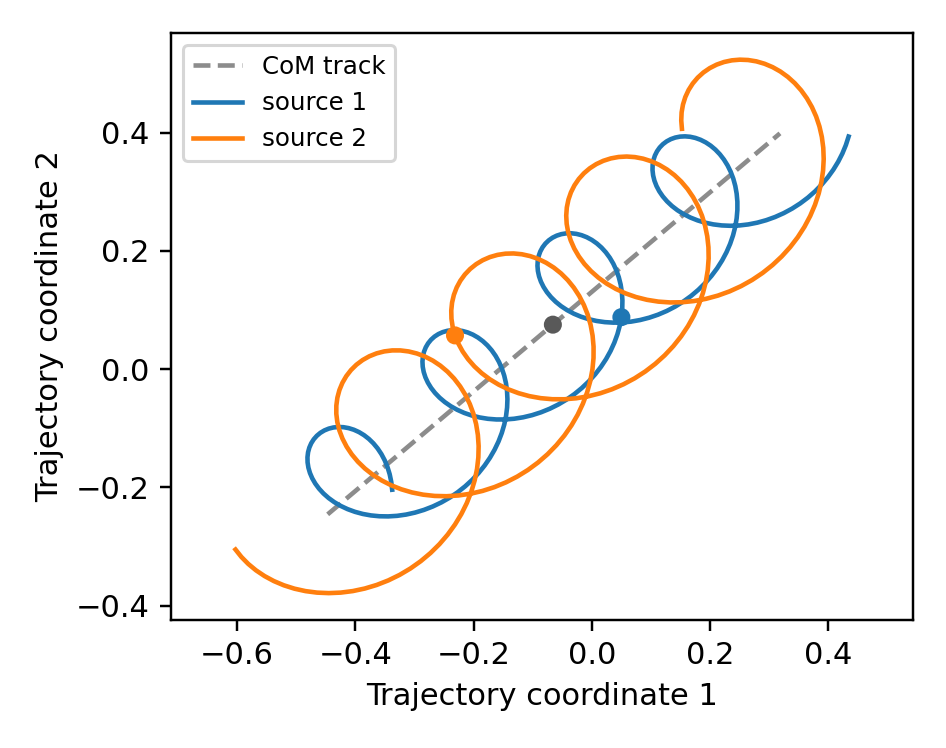
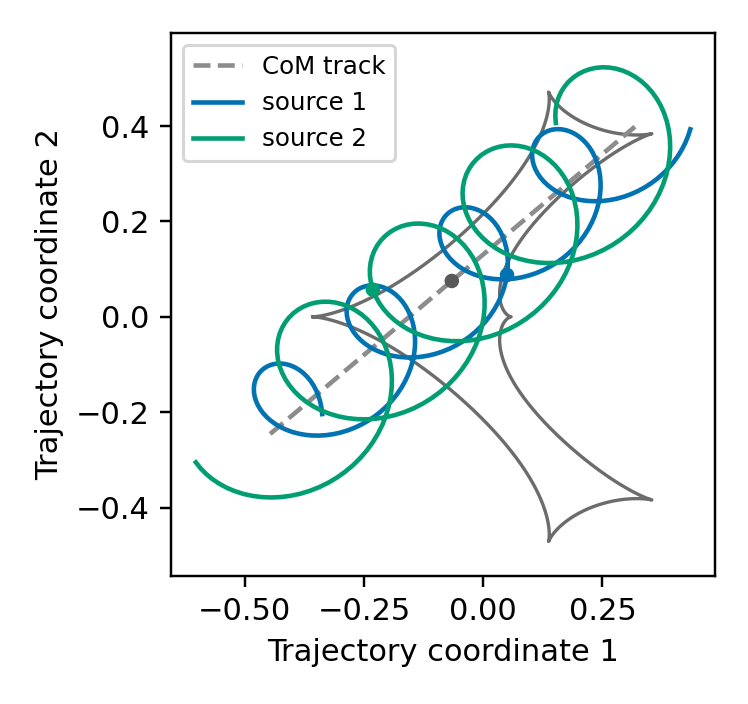
docs: visualize binary-source light curves and trajectories

diff --git a/example/docs-python/generate_figures.py b/example/docs-python/generate_figures.py
@@ -314,15 +314,38 @@ def binary_source():
         source1_params.pop(key)
         source2_params.pop(key)
 
+    source1_magnification = source1(times, source1_params)
+    source2_magnification = source1(times, source2_params)
+    binary_magnification = binary(times, params)
+
     plt.figure(figsize=(4.8, 3.0))
-    plt.plot(times, source1(times, source1_params), label="source 1")
-    plt.plot(times, source1(times, source2_params), label="source 2")
-    plt.plot(times, binary(times, params), color="black", lw=1.5,
+    plt.plot(times, source1_magnification, color="#0173B2", label="source 1")
+    plt.plot(times, source2_magnification, color="#029E73", label="source 2")
+    plt.plot(times, binary_magnification, color="black", lw=1.5,
              label="flux-weighted binary source")
     plt.xlabel("Time")
     plt.ylabel("Magnification")
     plt.legend(fontsize=8)
     save("BinarySource_static_lightcurve.png")
+
+    source1_trajectory = source1.source_trajectory(times, source1_params)
+    source2_trajectory = source1.source_trajectory(times, source2_params)
+    caustics = source1.caustics(source1_params)
+    plt.figure(figsize=(2.8, 2.8))
+    plot_caustics(caustics, color="#6C6C6C", lw=1.1)
+    plt.plot(
+        -np.asarray(source1_trajectory.x), -np.asarray(source1_trajectory.y),
+        color="#0173B2", label="source 1",
+    )
+    plt.plot(
+        -np.asarray(source2_trajectory.x), -np.asarray(source2_trajectory.y),
+        color="#029E73", label="source 2",
+    )
+    plt.xlabel("X")
+    plt.ylabel("Y")
+    plt.axis("equal")
+    plt.legend(fontsize=7)
+    save("BinarySource_static_geometry.png")
 
 
 def binary_source_xallarap_trajectories():
@@ -348,22 +371,43 @@ def binary_source_xallarap_trajectories():
         ),
     )
     centre = static.source_trajectory(times, **common)
+    caustics = static.caustics(**common)
     ref_index = int(np.argmin(np.abs(times - t_ref)))
 
-    plt.figure(figsize=(4.3, 3.4))
+    plt.figure(figsize=(3.4, 3.2))
+    for x, y in zip(caustics.x, caustics.y):
+        plt.plot(x, y, color="#6C6C6C", lw=1.1, zorder=1)
     plt.plot(centre.x, centre.y, color="0.55", linestyle="--", label="CoM track")
-    plt.plot(first.x, first.y, color="tab:blue", label="source 1")
-    plt.plot(second.x, second.y, color="tab:orange", label="source 2")
+    plt.plot(first.x, first.y, color="#0173B2", label="source 1")
+    plt.plot(second.x, second.y, color="#029E73", label="source 2")
     plt.scatter(
         [first.x[ref_index], second.x[ref_index], centre.x[ref_index]],
         [first.y[ref_index], second.y[ref_index], centre.y[ref_index]],
-        color=["tab:blue", "tab:orange", "0.35"], s=24, zorder=3,
+        color=["#0173B2", "#029E73", "0.35"], s=14, zorder=3,
     )
     plt.xlabel("Trajectory coordinate 1")
     plt.ylabel("Trajectory coordinate 2")
     plt.axis("equal")
     plt.legend(fontsize=8)
     save("BinarySource_xallarap_trajectories.png")
+
+
+def binary_source_xallarap_lightcurve():
+    params = dict(
+        s=0.9, q=0.1, alpha=1.0, tE=30.0, t0=7500.0, u0=0.10,
+        rho1=0.004, rho2=0.002, flux_ratio=0.4, source_mass_ratio=0.7,
+        xi_1=0.04, xi_2=-0.02, w1=0.01, w2=0.8, w3=0.2,
+    )
+    times = np.linspace(7470.0, 7530.0, 300)
+    curve = lcbinint.LightCurve(
+        source="binary", xallarap="circular_velocity",
+        source_orbit_coordinates="xallarap", t_ref=7500.0,
+    )
+    plt.figure(figsize=(3.8, 2.55))
+    plt.plot(times, curve(times, params), color="#0173B2")
+    plt.xlabel("Time")
+    plt.ylabel("Magnification")
+    save("BinarySource_xallarap_lightcurve.png")
 
 
 def binary_source_binary_lens():
@@ -600,6 +644,7 @@ def main():
     parallax()
     orbital_motion()
     binary_source()
+    binary_source_xallarap_lightcurve()
     binary_source_xallarap_trajectories()
     binary_source_binary_lens()
     limb_darkening()

diff --git a/docs/python/BinarySources.md b/docs/python/BinarySources.md
@@ -32,9 +32,12 @@ Both `rho1` and `rho2` are required.  Set either to zero for a point source.
 
 ```python
 import numpy as np
+import matplotlib.pyplot as plt
 import lcbinint
 
-curve = lcbinint.LightCurve(source="binary")
+options = lcbinint.Options(tol=1e-3, reltol=1e-3)
+binary_curve = lcbinint.LightCurve(source="binary", options=options)
+single_source_curve = lcbinint.LightCurve(options=options)
 parameters = {
     "s": 0.9, "q": 0.1, "alpha": 1.0, "tE": 30.0,
     "t0": 7500.0, "u0": 0.10, "rho1": 0.004,
@@ -42,13 +45,62 @@ parameters = {
     "flux_ratio": 0.4,
 }
 times = np.linspace(7470.0, 7530.0, 300)
-magnification = curve(times, parameters)
+
+# The two single-source calls expose the components of the binary-source sum.
+source1_params = dict(parameters, rho=parameters["rho1"])
+source2_params = dict(
+    parameters,
+    t0=parameters["t0_2"], u0=parameters["u0_2"], rho=parameters["rho2"],
+)
+for key in ("rho1", "t0_2", "u0_2", "rho2", "flux_ratio"):
+    source1_params.pop(key)
+    source2_params.pop(key)
+
+source1_magnification = single_source_curve(times, source1_params)
+source2_magnification = single_source_curve(times, source2_params)
+binary_magnification = binary_curve(times, parameters)
 ```
 
-The figure separates the two source magnifications from their flux-weighted
-binary-source result.
+Plot the component curves and their flux-weighted binary-source result:
+
+```python
+plt.figure(figsize=(4.8, 3.0))
+plt.plot(times, source1_magnification, color="#0173B2", label="source 1")
+plt.plot(times, source2_magnification, color="#029E73", label="source 2")
+plt.plot(
+    times, binary_magnification, color="black", lw=1.5,
+    label="flux-weighted binary source",
+)
+plt.xlabel("Time")
+plt.ylabel("Magnification")
+plt.legend(fontsize=8)
+plt.show()
+```
 
 ![Static binary-source light curve](figures/BinarySource_static_lightcurve.png)
+
+The same two trajectories can be inspected against the caustics:
+
+```python
+source1_trajectory = single_source_curve.source_trajectory(times, source1_params)
+source2_trajectory = single_source_curve.source_trajectory(times, source2_params)
+caustics = single_source_curve.caustics(source1_params)
+
+plt.figure(figsize=(2.8, 2.8))
+for x, y in zip(caustics.x, caustics.y):
+    plt.plot(-np.asarray(x), -np.asarray(y), color="#6C6C6C", lw=1.1)
+plt.plot(-np.asarray(source1_trajectory.x), -np.asarray(source1_trajectory.y),
+         color="#0173B2", label="source 1")
+plt.plot(-np.asarray(source2_trajectory.x), -np.asarray(source2_trajectory.y),
+         color="#029E73", label="source 2")
+plt.xlabel("X")
+plt.ylabel("Y")
+plt.axis("equal")
+plt.legend(fontsize=7)
+plt.show()
+```
+
+![Static binary-source trajectories and caustics](figures/BinarySource_static_geometry.png)
 
 ## Source orbital motion (xallarap)
 
@@ -144,10 +196,59 @@ parameters = {
     "xi_1": 0.04, "xi_2": -0.02,
     "w1": 0.01, "w2": 0.8, "w3": 0.2,
 }
+times = np.linspace(7470.0, 7530.0, 300)
+binary_source_magnification = curve(times, parameters)
 ```
 
-The source-orbit figure shows the two CoM-consistent projected trajectories.
-The filled markers are their positions at `t_ref`; their different distances
+Plot the binary-source light curve produced by that configured model:
+
+```python
+plt.figure(figsize=(3.8, 2.55))
+plt.plot(times, binary_source_magnification, color="#0173B2")
+plt.xlabel("Time")
+plt.ylabel("Magnification")
+plt.show()
+```
+
+![Binary-source xallarap light curve](figures/BinarySource_xallarap_lightcurve.png)
+
+Plot both source trajectories with the static lens caustics. `source_trajectory`
+returns one source track, so the two CoM-consistent states are evaluated
+explicitly for this geometry plot:
+
+```python
+trajectory_curve = lcbinint.LightCurve(
+    xallarap="circular_velocity",
+    t_ref=7500.0,
+)
+centre_curve = lcbinint.LightCurve()
+trajectory_params = dict(parameters, rho=0.0)
+for key in ("rho1", "rho2", "flux_ratio", "source_mass_ratio"):
+    trajectory_params.pop(key)
+source2_params = dict(
+    trajectory_params,
+    xi_1=-trajectory_params["xi_1"] / parameters["source_mass_ratio"],
+    xi_2=-trajectory_params["xi_2"] / parameters["source_mass_ratio"],
+)
+source1_trajectory = trajectory_curve.source_trajectory(times, trajectory_params)
+source2_trajectory = trajectory_curve.source_trajectory(times, source2_params)
+centre_trajectory = centre_curve.source_trajectory(times, trajectory_params)
+caustics = centre_curve.caustics(trajectory_params)
+
+plt.figure(figsize=(3.4, 3.2))
+for x, y in zip(caustics.x, caustics.y):
+    plt.plot(x, y, color="#6C6C6C", lw=1.1)
+plt.plot(centre_trajectory.x, centre_trajectory.y, color="0.55", ls="--", label="CoM")
+plt.plot(source1_trajectory.x, source1_trajectory.y, color="#0173B2", label="source 1")
+plt.plot(source2_trajectory.x, source2_trajectory.y, color="#029E73", label="source 2")
+plt.xlabel("Trajectory coordinate 1")
+plt.ylabel("Trajectory coordinate 2")
+plt.axis("equal")
+plt.legend(fontsize=7)
+plt.show()
+```
+
+The filled markers are the positions at `t_ref`; their different distances
 from the CoM reflect `source_mass_ratio`, not `flux_ratio`.
 
 ![Binary-source xallarap trajectories](figures/BinarySource_xallarap_trajectories.png)
